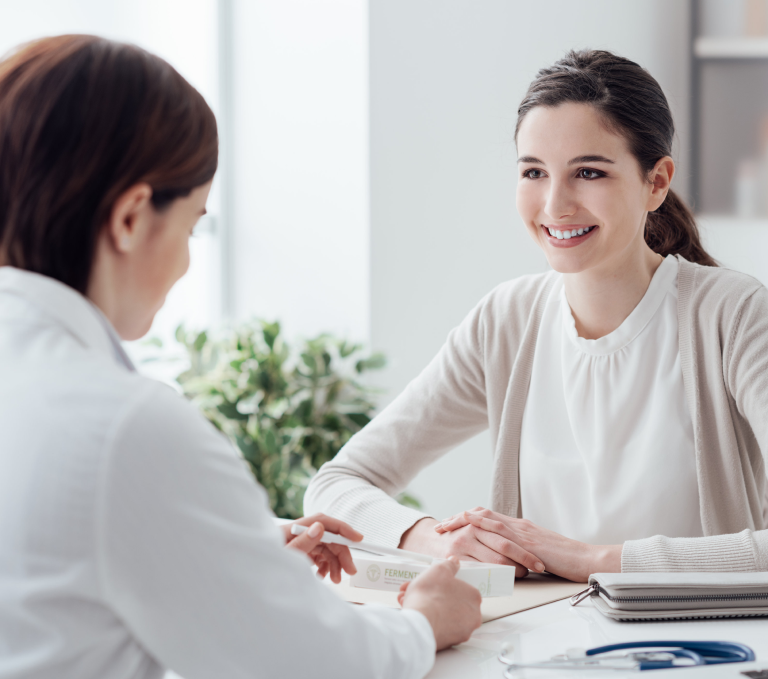
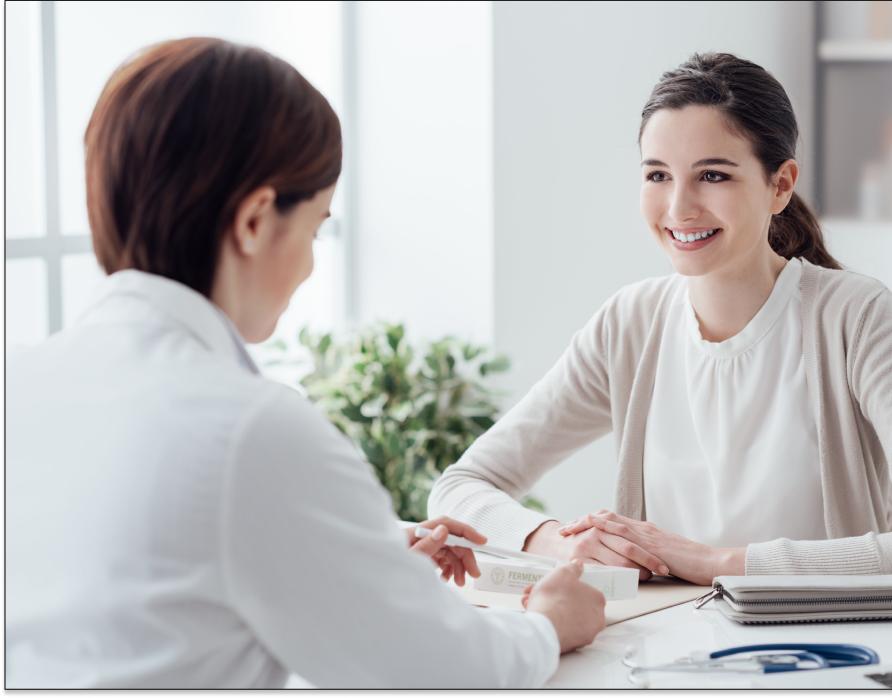
top article section done +1 hr
Total 7.0 hrs

diff --git a/gotIt/src/app/Components/top-article/top-article.component.html b/gotIt/src/app/Components/top-article/top-article.component.html
@@ -1,0 +1,43 @@
+<section class="wrapper">
+  <article>
+    <h1>Your Friendly Neighborhood Medical Clinic</h1>
+    <span>Lockwood Clinic has provided compassionate and comprehensive care to the Ontario community for nearly a century. Founded on the belief that patients should have a convenient and all-inclusive destination for diagnostic testing and related treatment</span>
+    <a href="#">Check wait times</a>
+  </article>
+
+  <svg viewBox="0 0 907 841" class="colorSvg">
+    <path class="colorPath"
+          d="M844.556 172.522C696.992 75.3567 176.631 -21.0958 98.7257 150.754C20.8204 322.604 374.832 306.565 329.005 478.416C220.895 883.827 690.571 818.893 864.506 608.34C940.219 516.686 989.541 267.989 844.556 172.522Z"/>
+  </svg>
+
+  <svg class="photoWrap" viewBox="0 0 768 679">
+    <mask id="mask0" mask-type="alpha" maskUnits="userSpaceOnUse" x="0" y="0">
+      <path
+        d="M554.795 31.0781C392.714 -39.25 35.2339 15.0385 5.35415 143.783C-24.5256 272.528 82.5267 266.634 127.941 426.191C235.061 802.543 743.257 715.042 789.084 445.81C818.948 270.358 714.043 100.177 554.795 31.0781Z"
+        fill="#C4C4C4"/>
+    </mask>
+    <g mask="url(#mask0)">
+      <g filter="url(#filter0_d)">
+        <rect x="-119.524" y="-2.8623" width="1033.39" height="689.693" fill="url(#pattern0)"/>
+        <rect x="-119.024" y="-2.3623" width="1032.39" height="688.693" stroke="black"/>
+      </g>
+    </g>
+    <defs>
+      <filter id="filter0_d" x="-123.524" y="-2.8623" width="1041.39" height="697.693" filterUnits="userSpaceOnUse"
+              color-interpolation-filters="sRGB">
+        <feFlood flood-opacity="0" result="BackgroundImageFix"/>
+        <feColorMatrix in="SourceAlpha" type="matrix" values="0 0 0 0 0 0 0 0 0 0 0 0 0 0 0 0 0 0 127 0"/>
+        <feOffset dy="4"/>
+        <feGaussianBlur stdDeviation="2"/>
+        <feColorMatrix type="matrix" values="0 0 0 0 0 0 0 0 0 0 0 0 0 0 0 0 0 0 0.25 0"/>
+        <feBlend mode="normal" in2="BackgroundImageFix" result="effect1_dropShadow"/>
+        <feBlend mode="normal" in="SourceGraphic" in2="effect1_dropShadow" result="shape"/>
+      </filter>
+      <pattern id="pattern0" patternContentUnits="objectBoundingBox" width="1" height="1">
+        <use xlink:href="#image0" transform="translate(-0.000116718) scale(0.000250058 0.000374672)"/>
+      </pattern>
+      <image id="image0" width="3400" height="2669" xlink:href="../../../assets/images/image%2023.png"/>
+    </defs>
+  </svg>
+
+</section>

diff --git a/gotIt/src/app/Components/top-article/top-article.component.scss b/gotIt/src/app/Components/top-article/top-article.component.scss
@@ -1,0 +1,83 @@
+@import "src/styles.scss";
+
+.wrapper {
+  width: 1440px;
+  height: 841px;
+  position: absolute;
+  top: 17px;
+  left: 0;
+}
+
+article{
+  width: 428px;
+  height: 477px;
+  margin-top: 145px;
+  margin-left: 192px;
+}
+
+h1{
+@extend .fontHelvBold;
+  font-size: 55px;
+  line-height: 130%;
+  letter-spacing: 0.03em;
+  text-transform: capitalize;
+  color: #404247;
+  margin: 0;
+}
+
+span{
+  @extend .fontHelvRoman;
+  font-size: 16px;
+  line-height: 150%;
+  color: #858A93;
+  display: block;
+  margin-top: 52px;
+}
+
+a{
+  display: block;
+  width: 185px;
+  height: 50px;
+  background: linear-gradient(106.68deg, #84B1D7 2.5%, #4F7AA2 100%);
+  box-shadow: 6px 6px 25px rgba(16, 45, 57, 0.05);
+  border-radius: 50px;
+  text-align: center;
+  text-decoration: none;
+  font-size: 16px;
+  line-height: 140%;
+  color: #FFFFFF;
+  padding-top: 12px;
+  margin-top: 40px;
+}
+
+a:hover{
+  text-decoration: none;
+}
+
+.colorSvg{
+  position: absolute;
+  left: 533px;
+  top: 10px;
+  width: 907px;
+  height: 841px;
+  fill: none;
+}
+
+.colorPath{
+  opacity: 0.1;
+  fill: #A7A7A7;
+}
+
+.photoWrap{
+  position: absolute;
+  right: -8px;
+  top: 76px;
+  width: 768px;
+  height: 679px;
+  fill: none;
+}
+
+#mask0{
+  width: 795px;
+  height: 679px;
+}

diff --git a/gotIt/src/app/app.module.ts b/gotIt/src/app/app.module.ts
@@ -12,6 +12,7 @@ import { PharmacyComponent } from './Components/pharmacy/pharmacy.component';
 import { HoursComponent } from './Components/hours/hours.component';
 import { WalkInClinicComponent } from './Components/walk-in-clinic/walk-in-clinic.component';
 import { MedicalClinicComponent } from './Components/medical-clinic/medical-clinic.component';
+import { TopArticleComponent } from './Components/top-article/top-article.component';
 
 @NgModule({
   declarations: [
@@ -23,7 +24,8 @@ import { MedicalClinicComponent } from './Components/medical-clinic/medical-clin
     PharmacyComponent,
     HoursComponent,
     WalkInClinicComponent,
-    MedicalClinicComponent
+    MedicalClinicComponent,
+    TopArticleComponent
   ],
   imports: [
     BrowserModule,

diff --git a/gotIt/src/app/Components/top-article/top-article.component.spec.ts b/gotIt/src/app/Components/top-article/top-article.component.spec.ts
@@ -1,0 +1,25 @@
+import { async, ComponentFixture, TestBed } from '@angular/core/testing';
+
+import { TopArticleComponent } from './top-article.component';
+
+describe('TopArticleComponent', () => {
+  let component: TopArticleComponent;
+  let fixture: ComponentFixture<TopArticleComponent>;
+
+  beforeEach(async(() => {
+    TestBed.configureTestingModule({
+      declarations: [ TopArticleComponent ]
+    })
+    .compileComponents();
+  }));
+
+  beforeEach(() => {
+    fixture = TestBed.createComponent(TopArticleComponent);
+    component = fixture.componentInstance;
+    fixture.detectChanges();
+  });
+
+  it('should create', () => {
+    expect(component).toBeTruthy();
+  });
+});

diff --git a/gotIt/src/app/Components/top-article/top-article.component.ts b/gotIt/src/app/Components/top-article/top-article.component.ts
@@ -1,0 +1,15 @@
+import { Component, OnInit } from '@angular/core';
+
+@Component({
+  selector: 'app-top-article',
+  templateUrl: './top-article.component.html',
+  styleUrls: ['./top-article.component.scss']
+})
+export class TopArticleComponent implements OnInit {
+
+  constructor() { }
+
+  ngOnInit(): void {
+  }
+
+}

diff --git a/gotIt/src/app/Components/main/main.component.html b/gotIt/src/app/Components/main/main.component.html
@@ -1,6 +1,7 @@
 <main class="wrapper">
 
-<app-medical-clinic></app-medical-clinic>
+  <app-top-article></app-top-article>
+  <app-medical-clinic></app-medical-clinic>
   <app-walk-in-clinic></app-walk-in-clinic>
   <app-hours></app-hours>
 
